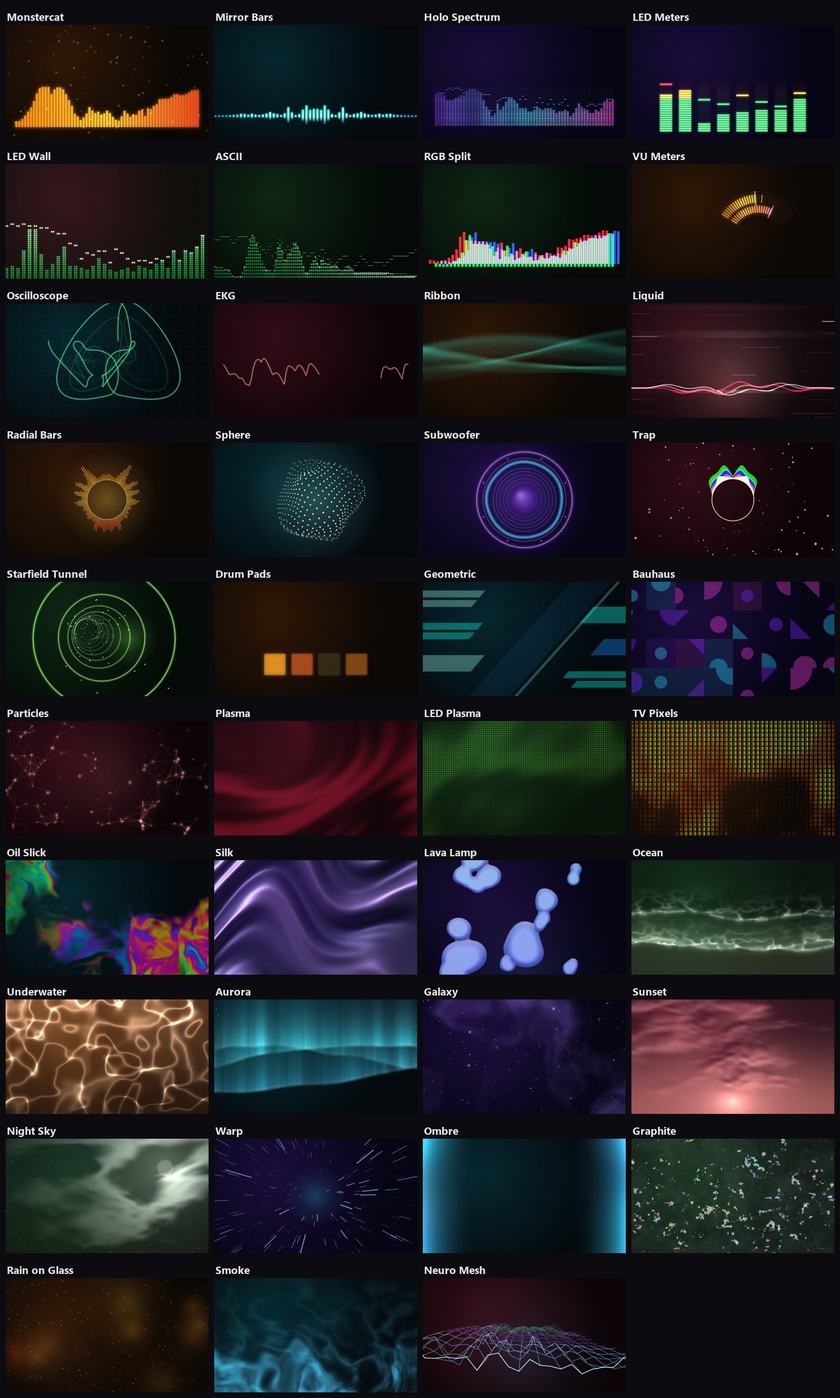
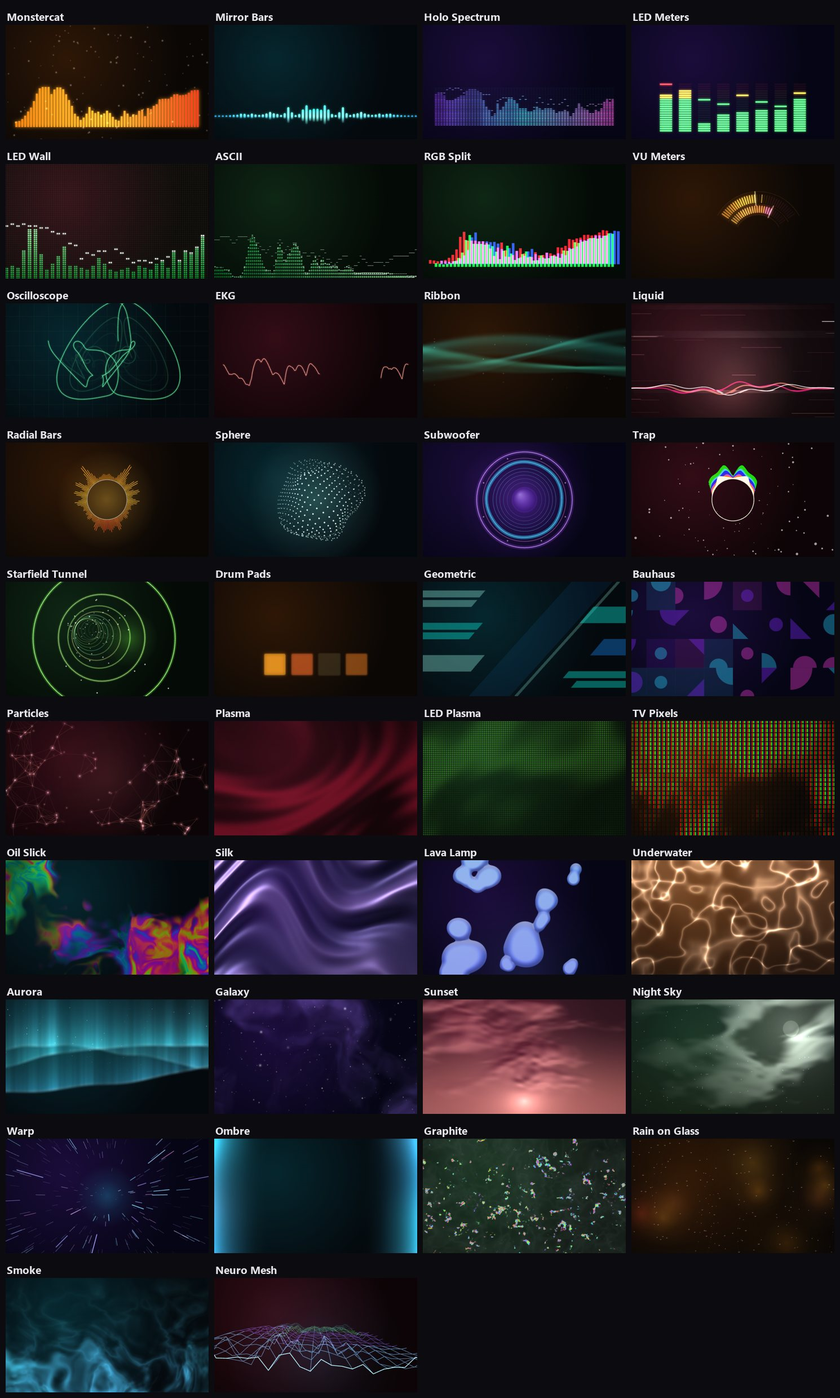
Remove Ocean; 38 styles

Changed region(s): [[0.0, 0.5899, 1.0, 1.0]]

diff --git a/spicy-visualiser.js b/spicy-visualiser.js
@@ -54,7 +54,6 @@
     ["ledplasma", "LED Plasma"],
     ["ekg", "EKG"],
     ["rgbsplit", "RGB Split"],
-    ["ocean", "Ocean"],
     ["underwater", "Underwater"],
     ["sunset", "Sunset"],
     ["nightsky", "Night Sky"],
@@ -64,7 +63,6 @@
   const STYLE_ICON = {
     ekg: '<path d="M1 13h5l2-3 2.5 9L14 4l2.5 9H23" fill="none" stroke="currentColor" stroke-width="1.8" stroke-linejoin="round" stroke-linecap="round"/>',
     rgbsplit: '<g style="mix-blend-mode:screen"><path d="M3 21V12h3v9zm5 0V6h3v15zm5 0V9h3v12zm5 0V4h3v17z" opacity=".55" transform="translate(-1 0)"/><path d="M3 21V12h3v9zm5 0V6h3v15zm5 0V9h3v12zm5 0V4h3v17z" opacity=".55" transform="translate(1 1)"/></g>',
-    ocean: '<g fill="none" stroke="currentColor" stroke-width="1.7" stroke-linecap="round"><path d="M1 10c3-3 5 3 8 0s5 3 8 0 4 2 6 0"/><path d="M1 15c3-3 5 3 8 0s5 3 8 0 4 2 6 0" opacity=".7"/><path d="M1 20c3-3 5 3 8 0s5 3 8 0 4 2 6 0" opacity=".45"/></g>',
     underwater: '<g fill="none" stroke="currentColor" stroke-width="1.5" stroke-linecap="round"><path d="M1 5c3-2 5 2 8 0s5 2 8 0 4 1 6 0"/><path d="M6 21l2.5-12M12 21V9M18 21l-2.5-12" opacity=".45"/></g><circle cx="9" cy="15" r="1.2"/><circle cx="15" cy="12" r="1"/>',
     sunset: '<path d="M5 16a7 7 0 0 1 14 0z"/><g stroke="currentColor" stroke-width="1.6" stroke-linecap="round"><path d="M1 19h22"/><path d="M4 22h16" opacity=".5"/></g><path d="M3 8c2-1.5 4-1.5 6 0s4 1.5 6 0" fill="none" stroke="currentColor" stroke-width="1.4" opacity=".6"/>',
     nightsky: '<path d="M15 3a8 8 0 1 0 6 12 6.5 6.5 0 0 1-6-12z"/><circle cx="5" cy="5" r="1"/><circle cx="9" cy="2.5" r=".8"/><circle cx="3" cy="11" r=".8"/>',
@@ -108,13 +106,13 @@
   // Styles that still look right on Spotify's data (it has loudness and
   // beats, not a real spectrum). With that source they're listed first and
   // the rest fold away under "More styles".
-  const SONG_DATA_OK = new Set(["ocean", "underwater", "sunset", "nightsky", "silk", "tvpixels", "drumpads", "particles", "plasma", "ledplasma", "warp", "dnb", "ribbon", "rain", "lava", "smoke", "tunnel", "aurora", "oil", "galaxy", "prism", "ombre", "geometric", "bauhaus", "sub", "off"]);
+  const SONG_DATA_OK = new Set(["underwater", "sunset", "nightsky", "silk", "tvpixels", "drumpads", "particles", "plasma", "ledplasma", "warp", "dnb", "ribbon", "rain", "lava", "smoke", "tunnel", "aurora", "oil", "galaxy", "prism", "ombre", "geometric", "bauhaus", "sub", "off"]);
   const STYLE_GROUPS = [
     ["Bars", ["monstercat", "mirror", "holospec", "ledm", "led", "ascii", "rgbsplit"]],
     ["Meters & lines", ["vu", "scope", "ekg", "ribbon", "dnb"]],
     ["Circles", ["radial", "ncs", "sub", "trap", "tunnel"]],
     ["On the beat", ["drumpads", "geometric", "bauhaus", "particles"]],
-    ["Liquid & water", ["plasma", "ledplasma", "tvpixels", "oil", "silk", "lava", "ocean", "underwater"]],
+    ["Liquid & water", ["plasma", "ledplasma", "tvpixels", "oil", "silk", "lava", "underwater"]],
     ["Sky & space", ["aurora", "galaxy", "sunset", "nightsky", "warp", "ombre"]],
     ["Textures", ["prism", "rain", "smoke", "neuro"]],
     ["", ["off"]],
@@ -126,13 +124,13 @@
     particles: ["particles", "monstercat", "warp", "dnb", "trap"],
     position: ["monstercat", "mirror", "ascii"],
     variant: ["geometric"],
-    beatEvery: ["ocean", "underwater", "sunset", "nightsky", "silk", "tvpixels", "geometric", "bauhaus", "plasma", "ledplasma", "sub", "trap", "neuro", "ribbon", "rain", "lava", "smoke", "tunnel", "aurora", "oil", "galaxy", "prism", "ombre"],
+    beatEvery: ["underwater", "sunset", "nightsky", "silk", "tvpixels", "geometric", "bauhaus", "plasma", "ledplasma", "sub", "trap", "neuro", "ribbon", "rain", "lava", "smoke", "tunnel", "aurora", "oil", "galaxy", "prism", "ombre"],
     neuroLook: ["neuro"],
     mcColor: ["monstercat"],
     vuFace: ["vu"],
     circleAt: ["trap", "radial", "ncs", "sub"],
-    speed: ["ekg", "ocean", "underwater", "sunset", "nightsky", "silk", "tvpixels", "scope", "trap", "neuro", "ribbon", "rain", "lava", "smoke", "tunnel", "aurora", "oil", "particles", "monstercat", "ncs", "radial", "plasma", "warp", "dnb", "ascii", "led", "ledplasma", "galaxy", "prism", "ombre"],
-    bassBoost: ["rgbsplit", "ocean", "underwater", "sunset", "nightsky", "silk", "tvpixels", "scope", "particles", "monstercat", "radial", "mirror", "ncs", "warp", "plasma", "dnb", "ascii", "geometric", "bauhaus", "led", "ledplasma", "sub", "trap", "ledm", "neuro", "ribbon", "rain", "lava", "smoke", "tunnel", "aurora", "oil", "galaxy", "prism", "ombre"],
+    speed: ["ekg", "underwater", "sunset", "nightsky", "silk", "tvpixels", "scope", "trap", "neuro", "ribbon", "rain", "lava", "smoke", "tunnel", "aurora", "oil", "particles", "monstercat", "ncs", "radial", "plasma", "warp", "dnb", "ascii", "led", "ledplasma", "galaxy", "prism", "ombre"],
+    bassBoost: ["rgbsplit", "underwater", "sunset", "nightsky", "silk", "tvpixels", "scope", "particles", "monstercat", "radial", "mirror", "ncs", "warp", "plasma", "dnb", "ascii", "geometric", "bauhaus", "led", "ledplasma", "sub", "trap", "ledm", "neuro", "ribbon", "rain", "lava", "smoke", "tunnel", "aurora", "oil", "galaxy", "prism", "ombre"],
     smoothing: ["rgbsplit", "ekg", "particles", "monstercat", "radial", "mirror", "ncs", "warp", "plasma", "dnb", "ascii", "geometric", "bauhaus", "led", "ledplasma", "sub", "trap", "ledm", "neuro", "aurora", "vu", "drumpads", "holospec"],
   };
 
@@ -192,7 +190,6 @@
     monstercat: { barCount: 63, bassBoost: 0.8, smoothing: 0.45, beatEvery: "4" },
     ledm: { shake: 0 },
     ekg: { shake: 0 },
-    ocean: { shake: 0 },
     underwater: { shake: 0 },
     sunset: { shake: 0 },
     nightsky: { shake: 0 },
@@ -244,7 +241,7 @@
   if (!Array.isArray(S.favs)) S.favs = [];
   // Retro Bars became LED Meters.
   // (and Drum Bars was taken out)
-  const MOVED = { retro: "ledm", drumbars: "drumpads", drums: "drumpads", holoradar: "holospec", holorings: "holospec", pitchtrail: "ekg", kaleido: "plasma", bubbles: "lava", chrome: "silk", ekgpitch: "ekg", ekgscroll: "ekg", pond: "ocean", storm: "sunset", mercury: "silk", ekg3: "ekg", chipscope: "scope", drumwaves: "drumpads" };
+  const MOVED = { retro: "ledm", drumbars: "drumpads", drums: "drumpads", holoradar: "holospec", holorings: "holospec", pitchtrail: "ekg", kaleido: "plasma", bubbles: "lava", chrome: "silk", ekgpitch: "ekg", ekgscroll: "ekg", pond: "underwater", ocean: "underwater", storm: "sunset", mercury: "silk", ekg3: "ekg", chipscope: "scope", drumwaves: "drumpads" };
   if (MOVED[S.style]) S.style = MOVED[S.style];
   S.favs = [...new Set(S.favs.map((f) => MOVED[f] || f))];
   if (!validStyle(S.style)) S.style = GLOBAL_DEFAULTS.style;
@@ -3175,73 +3172,6 @@ void main() {
   // Water and sky scenes. All use the album's colours, which turn on the
   // beat (Change every); the bass and loudness move them and kicks light
   // them up a little.
-
-  // Ocean: a beach seen from straight above, flat like a map. The sea at
-  // the top, sand at the bottom. Each kick sends a wave washing down over
-  // the sand with a lacy line of foam at its front; it slides back, leaving
-  // the sand dark and wet for a moment. The bass pushes the water's edge
-  // further in.
-  const OCEAN_FS = `
-uniform float uT, uE, uBass;
-uniform vec3 uC0, uC1, uC2;
-uniform vec4 uW[3];
-float wob(float x, float s) {
-  return 0.03 * sin(x * 3.1 + s) + 0.018 * sin(x * 7.3 - s * 1.7) + 0.02 * (noise(vec2(x * 4. + s * 3., s)) - 0.5);
-}
-void main() {
-  vec2 uv = gl_FragCoord.xy / uRes;
-  float x = uv.x * uRes.x / uRes.y, y = uv.y;
-  float base = 0.62 - 0.06 * uBass + 0.015 * sin(uT * 0.5);
-  float edge = base + wob(x, uT * 0.07);
-  float wet = 0., foam = 0.;
-  // foam: a net of thin bubbly lines, like the lace a wave leaves behind
-  float lace = pow(1. - abs(fbm3(vec2(x * 7., y * 11.) + vec2(uT * 0.05, -uT * 0.08)) * 2. - 1.), 7.);
-  for (int i = 0; i < 3; i++) {
-    vec4 w = uW[i];
-    if (w.y <= 0.) continue;
-    float e = base - w.x + wob(x, w.w);
-    edge = min(edge, e);
-    // the sand the wave reached stays dark and wet for a moment
-    wet = max(wet, w.y * step(base - w.z + wob(x, w.w), y));
-    // foam along the front, thinning out behind it
-    float d = y - e;
-    float rim = exp(-abs(d + 0.006) * 70.) * (0.45 + 0.55 * smoothstep(0.3, 0.6, noise(vec2(x * 18., w.w))));
-    foam = max(foam, w.y * (rim * 0.75 + step(0., d) * exp(-d * 14.) * lace * 0.9));
-  }
-  float d = y - edge;
-  vec3 sand = mix(uC2, vec3(0.78, 0.68, 0.52), 0.75) * 0.2;
-  sand *= 1. - 0.45 * wet;
-  vec3 shallow = mix(uC1, vec3(0.6, 0.9, 0.9), 0.15) * 0.32;
-  vec3 deep = uC0 * 0.05;
-  vec3 sea = mix(shallow, deep, smoothstep(0., 0.35, d));
-  sea += mix(uC1, vec3(1.), 0.5) * lace * exp(-d * 8.) * 0.18;
-  vec3 col = mix(sand, sea, smoothstep(-0.002, 0.002, d));
-  col += mix(uC1, vec3(1.), 0.75) * foam * (0.55 + 0.25 * uE);
-  // a thin line of foam where the calm water meets the sand
-  col += mix(uC1, vec3(1.), 0.7) * exp(-abs(d) * 90.) * 0.18;
-  o = vec4(min(col, vec3(1.)), 0.95);
-}`;
-  DRAW.ocean = (v, p, dt) => {
-    const st = v.ocean || (v.ocean = { waves: [] });
-    fxClock(st, p, dt, 0.3, 4, 1, 3);
-    if (st.newKick) {
-      if (st.waves.length >= 3) st.waves.shift();
-      st.waves.push({ ph: 0, s: Math.min(1, 0.45 + 0.6 * Math.min(1, shared.kick)), seed: Math.random() * 50 });
-    }
-    const W = new Float32Array(12);
-    st.waves = st.waves.filter((w) => (w.ph += (dt * p.speed) / 3.2) < 1);
-    st.waves.forEach((w, i) => {
-      // rushes in fast, then slides back slowly
-      const out = w.ph < 0.25 ? Math.sin((w.ph / 0.25) * Math.PI * 0.5) : 1 - (w.ph - 0.25) / 0.75;
-      const reach = 0.16 + 0.22 * w.s;
-      W[i * 4] = reach * out * out * (3 - 2 * out);
-      W[i * 4 + 1] = (1 - w.ph) * (1 - w.ph * 0.5);
-      W[i * 4 + 2] = reach;
-      W[i * 4 + 3] = w.seed;
-    });
-    const pal = easePal(st, beatSteps(st, p), dt, 0.4);
-    fxDraw(v, "ocean", OCEAN_FS, { uT: st.T, uE: shared.energy, uBass: Math.min(1, 0.6 * st.lift + 0.4 * st.punch), uW: W, uC0: rgb1(pal[0]), uC1: rgb1(pal[1]), uC2: rgb1(pal[2]) }, 1);
-  };
 
   // Underwater: looking up from under the sea. Rippling nets of light
   // (caustics) wobble across, with soft shafts of light from the surface.

diff --git a/src/spicy-visualiser.template.js b/src/spicy-visualiser.template.js
@@ -54,7 +54,6 @@
     ["ledplasma", "LED Plasma"],
     ["ekg", "EKG"],
     ["rgbsplit", "RGB Split"],
-    ["ocean", "Ocean"],
     ["underwater", "Underwater"],
     ["sunset", "Sunset"],
     ["nightsky", "Night Sky"],
@@ -64,7 +63,6 @@
   const STYLE_ICON = {
     ekg: '<path d="M1 13h5l2-3 2.5 9L14 4l2.5 9H23" fill="none" stroke="currentColor" stroke-width="1.8" stroke-linejoin="round" stroke-linecap="round"/>',
     rgbsplit: '<g style="mix-blend-mode:screen"><path d="M3 21V12h3v9zm5 0V6h3v15zm5 0V9h3v12zm5 0V4h3v17z" opacity=".55" transform="translate(-1 0)"/><path d="M3 21V12h3v9zm5 0V6h3v15zm5 0V9h3v12zm5 0V4h3v17z" opacity=".55" transform="translate(1 1)"/></g>',
-    ocean: '<g fill="none" stroke="currentColor" stroke-width="1.7" stroke-linecap="round"><path d="M1 10c3-3 5 3 8 0s5 3 8 0 4 2 6 0"/><path d="M1 15c3-3 5 3 8 0s5 3 8 0 4 2 6 0" opacity=".7"/><path d="M1 20c3-3 5 3 8 0s5 3 8 0 4 2 6 0" opacity=".45"/></g>',
     underwater: '<g fill="none" stroke="currentColor" stroke-width="1.5" stroke-linecap="round"><path d="M1 5c3-2 5 2 8 0s5 2 8 0 4 1 6 0"/><path d="M6 21l2.5-12M12 21V9M18 21l-2.5-12" opacity=".45"/></g><circle cx="9" cy="15" r="1.2"/><circle cx="15" cy="12" r="1"/>',
     sunset: '<path d="M5 16a7 7 0 0 1 14 0z"/><g stroke="currentColor" stroke-width="1.6" stroke-linecap="round"><path d="M1 19h22"/><path d="M4 22h16" opacity=".5"/></g><path d="M3 8c2-1.5 4-1.5 6 0s4 1.5 6 0" fill="none" stroke="currentColor" stroke-width="1.4" opacity=".6"/>',
     nightsky: '<path d="M15 3a8 8 0 1 0 6 12 6.5 6.5 0 0 1-6-12z"/><circle cx="5" cy="5" r="1"/><circle cx="9" cy="2.5" r=".8"/><circle cx="3" cy="11" r=".8"/>',
@@ -108,13 +106,13 @@
   // Styles that still look right on Spotify's data (it has loudness and
   // beats, not a real spectrum). With that source they're listed first and
   // the rest fold away under "More styles".
-  const SONG_DATA_OK = new Set(["ocean", "underwater", "sunset", "nightsky", "silk", "tvpixels", "drumpads", "particles", "plasma", "ledplasma", "warp", "dnb", "ribbon", "rain", "lava", "smoke", "tunnel", "aurora", "oil", "galaxy", "prism", "ombre", "geometric", "bauhaus", "sub", "off"]);
+  const SONG_DATA_OK = new Set(["underwater", "sunset", "nightsky", "silk", "tvpixels", "drumpads", "particles", "plasma", "ledplasma", "warp", "dnb", "ribbon", "rain", "lava", "smoke", "tunnel", "aurora", "oil", "galaxy", "prism", "ombre", "geometric", "bauhaus", "sub", "off"]);
   const STYLE_GROUPS = [
     ["Bars", ["monstercat", "mirror", "holospec", "ledm", "led", "ascii", "rgbsplit"]],
     ["Meters & lines", ["vu", "scope", "ekg", "ribbon", "dnb"]],
     ["Circles", ["radial", "ncs", "sub", "trap", "tunnel"]],
     ["On the beat", ["drumpads", "geometric", "bauhaus", "particles"]],
-    ["Liquid & water", ["plasma", "ledplasma", "tvpixels", "oil", "silk", "lava", "ocean", "underwater"]],
+    ["Liquid & water", ["plasma", "ledplasma", "tvpixels", "oil", "silk", "lava", "underwater"]],
     ["Sky & space", ["aurora", "galaxy", "sunset", "nightsky", "warp", "ombre"]],
     ["Textures", ["prism", "rain", "smoke", "neuro"]],
     ["", ["off"]],
@@ -126,13 +124,13 @@
     particles: ["particles", "monstercat", "warp", "dnb", "trap"],
     position: ["monstercat", "mirror", "ascii"],
     variant: ["geometric"],
-    beatEvery: ["ocean", "underwater", "sunset", "nightsky", "silk", "tvpixels", "geometric", "bauhaus", "plasma", "ledplasma", "sub", "trap", "neuro", "ribbon", "rain", "lava", "smoke", "tunnel", "aurora", "oil", "galaxy", "prism", "ombre"],
+    beatEvery: ["underwater", "sunset", "nightsky", "silk", "tvpixels", "geometric", "bauhaus", "plasma", "ledplasma", "sub", "trap", "neuro", "ribbon", "rain", "lava", "smoke", "tunnel", "aurora", "oil", "galaxy", "prism", "ombre"],
     neuroLook: ["neuro"],
     mcColor: ["monstercat"],
     vuFace: ["vu"],
     circleAt: ["trap", "radial", "ncs", "sub"],
-    speed: ["ekg", "ocean", "underwater", "sunset", "nightsky", "silk", "tvpixels", "scope", "trap", "neuro", "ribbon", "rain", "lava", "smoke", "tunnel", "aurora", "oil", "particles", "monstercat", "ncs", "radial", "plasma", "warp", "dnb", "ascii", "led", "ledplasma", "galaxy", "prism", "ombre"],
-    bassBoost: ["rgbsplit", "ocean", "underwater", "sunset", "nightsky", "silk", "tvpixels", "scope", "particles", "monstercat", "radial", "mirror", "ncs", "warp", "plasma", "dnb", "ascii", "geometric", "bauhaus", "led", "ledplasma", "sub", "trap", "ledm", "neuro", "ribbon", "rain", "lava", "smoke", "tunnel", "aurora", "oil", "galaxy", "prism", "ombre"],
+    speed: ["ekg", "underwater", "sunset", "nightsky", "silk", "tvpixels", "scope", "trap", "neuro", "ribbon", "rain", "lava", "smoke", "tunnel", "aurora", "oil", "particles", "monstercat", "ncs", "radial", "plasma", "warp", "dnb", "ascii", "led", "ledplasma", "galaxy", "prism", "ombre"],
+    bassBoost: ["rgbsplit", "underwater", "sunset", "nightsky", "silk", "tvpixels", "scope", "particles", "monstercat", "radial", "mirror", "ncs", "warp", "plasma", "dnb", "ascii", "geometric", "bauhaus", "led", "ledplasma", "sub", "trap", "ledm", "neuro", "ribbon", "rain", "lava", "smoke", "tunnel", "aurora", "oil", "galaxy", "prism", "ombre"],
     smoothing: ["rgbsplit", "ekg", "particles", "monstercat", "radial", "mirror", "ncs", "warp", "plasma", "dnb", "ascii", "geometric", "bauhaus", "led", "ledplasma", "sub", "trap", "ledm", "neuro", "aurora", "vu", "drumpads", "holospec"],
   };
 
@@ -192,7 +190,6 @@
     monstercat: { barCount: 63, bassBoost: 0.8, smoothing: 0.45, beatEvery: "4" },
     ledm: { shake: 0 },
     ekg: { shake: 0 },
-    ocean: { shake: 0 },
     underwater: { shake: 0 },
     sunset: { shake: 0 },
     nightsky: { shake: 0 },
@@ -244,7 +241,7 @@
   if (!Array.isArray(S.favs)) S.favs = [];
   // Retro Bars became LED Meters.
   // (and Drum Bars was taken out)
-  const MOVED = { retro: "ledm", drumbars: "drumpads", drums: "drumpads", holoradar: "holospec", holorings: "holospec", pitchtrail: "ekg", kaleido: "plasma", bubbles: "lava", chrome: "silk", ekgpitch: "ekg", ekgscroll: "ekg", pond: "ocean", storm: "sunset", mercury: "silk", ekg3: "ekg", chipscope: "scope", drumwaves: "drumpads" };
+  const MOVED = { retro: "ledm", drumbars: "drumpads", drums: "drumpads", holoradar: "holospec", holorings: "holospec", pitchtrail: "ekg", kaleido: "plasma", bubbles: "lava", chrome: "silk", ekgpitch: "ekg", ekgscroll: "ekg", pond: "underwater", ocean: "underwater", storm: "sunset", mercury: "silk", ekg3: "ekg", chipscope: "scope", drumwaves: "drumpads" };
   if (MOVED[S.style]) S.style = MOVED[S.style];
   S.favs = [...new Set(S.favs.map((f) => MOVED[f] || f))];
   if (!validStyle(S.style)) S.style = GLOBAL_DEFAULTS.style;
@@ -3175,73 +3172,6 @@ void main() {
   // Water and sky scenes. All use the album's colours, which turn on the
   // beat (Change every); the bass and loudness move them and kicks light
   // them up a little.
-
-  // Ocean: a beach seen from straight above, flat like a map. The sea at
-  // the top, sand at the bottom. Each kick sends a wave washing down over
-  // the sand with a lacy line of foam at its front; it slides back, leaving
-  // the sand dark and wet for a moment. The bass pushes the water's edge
-  // further in.
-  const OCEAN_FS = `
-uniform float uT, uE, uBass;
-uniform vec3 uC0, uC1, uC2;
-uniform vec4 uW[3];
-float wob(float x, float s) {
-  return 0.03 * sin(x * 3.1 + s) + 0.018 * sin(x * 7.3 - s * 1.7) + 0.02 * (noise(vec2(x * 4. + s * 3., s)) - 0.5);
-}
-void main() {
-  vec2 uv = gl_FragCoord.xy / uRes;
-  float x = uv.x * uRes.x / uRes.y, y = uv.y;
-  float base = 0.62 - 0.06 * uBass + 0.015 * sin(uT * 0.5);
-  float edge = base + wob(x, uT * 0.07);
-  float wet = 0., foam = 0.;
-  // foam: a net of thin bubbly lines, like the lace a wave leaves behind
-  float lace = pow(1. - abs(fbm3(vec2(x * 7., y * 11.) + vec2(uT * 0.05, -uT * 0.08)) * 2. - 1.), 7.);
-  for (int i = 0; i < 3; i++) {
-    vec4 w = uW[i];
-    if (w.y <= 0.) continue;
-    float e = base - w.x + wob(x, w.w);
-    edge = min(edge, e);
-    // the sand the wave reached stays dark and wet for a moment
-    wet = max(wet, w.y * step(base - w.z + wob(x, w.w), y));
-    // foam along the front, thinning out behind it
-    float d = y - e;
-    float rim = exp(-abs(d + 0.006) * 70.) * (0.45 + 0.55 * smoothstep(0.3, 0.6, noise(vec2(x * 18., w.w))));
-    foam = max(foam, w.y * (rim * 0.75 + step(0., d) * exp(-d * 14.) * lace * 0.9));
-  }
-  float d = y - edge;
-  vec3 sand = mix(uC2, vec3(0.78, 0.68, 0.52), 0.75) * 0.2;
-  sand *= 1. - 0.45 * wet;
-  vec3 shallow = mix(uC1, vec3(0.6, 0.9, 0.9), 0.15) * 0.32;
-  vec3 deep = uC0 * 0.05;
-  vec3 sea = mix(shallow, deep, smoothstep(0., 0.35, d));
-  sea += mix(uC1, vec3(1.), 0.5) * lace * exp(-d * 8.) * 0.18;
-  vec3 col = mix(sand, sea, smoothstep(-0.002, 0.002, d));
-  col += mix(uC1, vec3(1.), 0.75) * foam * (0.55 + 0.25 * uE);
-  // a thin line of foam where the calm water meets the sand
-  col += mix(uC1, vec3(1.), 0.7) * exp(-abs(d) * 90.) * 0.18;
-  o = vec4(min(col, vec3(1.)), 0.95);
-}`;
-  DRAW.ocean = (v, p, dt) => {
-    const st = v.ocean || (v.ocean = { waves: [] });
-    fxClock(st, p, dt, 0.3, 4, 1, 3);
-    if (st.newKick) {
-      if (st.waves.length >= 3) st.waves.shift();
-      st.waves.push({ ph: 0, s: Math.min(1, 0.45 + 0.6 * Math.min(1, shared.kick)), seed: Math.random() * 50 });
-    }
-    const W = new Float32Array(12);
-    st.waves = st.waves.filter((w) => (w.ph += (dt * p.speed) / 3.2) < 1);
-    st.waves.forEach((w, i) => {
-      // rushes in fast, then slides back slowly
-      const out = w.ph < 0.25 ? Math.sin((w.ph / 0.25) * Math.PI * 0.5) : 1 - (w.ph - 0.25) / 0.75;
-      const reach = 0.16 + 0.22 * w.s;
-      W[i * 4] = reach * out * out * (3 - 2 * out);
-      W[i * 4 + 1] = (1 - w.ph) * (1 - w.ph * 0.5);
-      W[i * 4 + 2] = reach;
-      W[i * 4 + 3] = w.seed;
-    });
-    const pal = easePal(st, beatSteps(st, p), dt, 0.4);
-    fxDraw(v, "ocean", OCEAN_FS, { uT: st.T, uE: shared.energy, uBass: Math.min(1, 0.6 * st.lift + 0.4 * st.punch), uW: W, uC0: rgb1(pal[0]), uC1: rgb1(pal[1]), uC2: rgb1(pal[2]) }, 1);
-  };
 
   // Underwater: looking up from under the sea. Rippling nets of light
   // (caustics) wobble across, with soft shafts of light from the surface.

diff --git a/test/run-tests.js b/test/run-tests.js
@@ -7,7 +7,7 @@ const fs = require("fs");
 const OUT = path.join(__dirname, "out");
 fs.mkdirSync(OUT, { recursive: true });
 
-const STYLES = ["particles", "monstercat", "ncs", "radial", "mirror", "plasma", "warp", "dnb", "ascii", "geometric", "bauhaus", "sub", "trap", "ledm", "neuro", "ribbon", "rain", "lava", "smoke", "tunnel", "aurora", "silk", "tvpixels", "oil", "galaxy", "prism", "ombre", "led", "ledplasma", "vu", "scope", "holospec", "rgbsplit", "ekg", "ocean", "underwater", "sunset", "nightsky", "drumpads"];
+const STYLES = ["particles", "monstercat", "ncs", "radial", "mirror", "plasma", "warp", "dnb", "ascii", "geometric", "bauhaus", "sub", "trap", "ledm", "neuro", "ribbon", "rain", "lava", "smoke", "tunnel", "aurora", "silk", "tvpixels", "oil", "galaxy", "prism", "ombre", "led", "ledplasma", "vu", "scope", "holospec", "rgbsplit", "ekg", "underwater", "sunset", "nightsky", "drumpads"];
 // Extra looks of a style: [style, setting key, value]
 const VARIANTS = [["geometric", "variant", "brutalist"], ["neuro", "neuroLook", "lines"], ["neuro", "neuroLook", "ridges"], ["monstercat", "mcColor", "height"], ["monstercat", "mcColor", "solid"], ["monstercat", "mcColor", "bar"], ["trap", "circleAt", "art"]];
 const HIGHLIGHTS = ["soft", "fade", "sweep", "underline"];

diff --git a/test/check-style-groups.js b/test/check-style-groups.js
@@ -16,7 +16,7 @@ const path = require("path");
   const cat = await p.evaluate(() => [...document.querySelectorAll(".lp-panel .lp-cards .lp-cat")].filter((x) => x.offsetParent).map((x) => x.textContent));
   await p.evaluate(() => document.querySelector(".lp-panel .lp-sd-more").click());
   const opened = await visible();
-  const ok = sd === 26 && opened === 40 && cat.join() === "Works with Spotify data" && def === "plasma";
+  const ok = sd === 25 && opened === 39 && cat.join() === "Works with Spotify data" && def === "plasma";
   console.log(ok ? "PASS" : "FAIL", "style groups by sound source", JSON.stringify({ sd, opened, cat, def }));
   await b.close();
   process.exit(ok ? 0 : 1);

diff --git a/test/song/docs-shots.js b/test/song/docs-shots.js
@@ -26,7 +26,7 @@ const SHOTS = [
   ["radial", 26], ["ncs", 23], ["sub", 13], ["trap", 25], ["tunnel", 27],
   ["drumpads", 22], ["geometric", 11], ["bauhaus", 29],
   ["plasma", 18], ["ledplasma", 24], ["tvpixels", 22], ["oil", 20], ["silk", 22], ["dnb", 26],
-  ["ocean", 23], ["underwater", 21],
+  ["underwater", 21],
   ["aurora", 23], ["galaxy", 21], ["sunset", 24], ["nightsky", 20], ["ribbon", 27], ["ombre", 25], ["warp", 30], ["particles", 22],
   ["prism", 22], ["rain", 19], ["smoke", 24], ["lava", 20], ["neuro", 14],
 ];

diff --git a/tools/make-doc-images.py b/tools/make-doc-images.py
@@ -19,7 +19,7 @@ GROUPS = [
     ("Meters & lines", [("vu", "VU Meters"), ("scope", "Oscilloscope"), ("ekg", "EKG"), ("ribbon", "Ribbon"), ("dnb", "Liquid")]),
     ("Circles", [("radial", "Radial Bars"), ("ncs", "Sphere"), ("sub", "Subwoofer"), ("trap", "Trap"), ("tunnel", "Starfield Tunnel")]),
     ("On the beat", [("drumpads", "Drum Pads"), ("geometric", "Geometric"), ("bauhaus", "Bauhaus"), ("particles", "Particles")]),
-    ("Liquid & water", [("plasma", "Plasma"), ("ledplasma", "LED Plasma"), ("tvpixels", "TV Pixels"), ("oil", "Oil Slick"), ("silk", "Silk"), ("lava", "Lava Lamp"), ("ocean", "Ocean"), ("underwater", "Underwater")]),
+    ("Liquid & water", [("plasma", "Plasma"), ("ledplasma", "LED Plasma"), ("tvpixels", "TV Pixels"), ("oil", "Oil Slick"), ("silk", "Silk"), ("lava", "Lava Lamp"), ("underwater", "Underwater")]),
     ("Sky & space", [("aurora", "Aurora"), ("galaxy", "Galaxy"), ("sunset", "Sunset"), ("nightsky", "Night Sky"), ("warp", "Warp"), ("ombre", "Ombre")]),
     ("Textures", [("prism", "Graphite"), ("rain", "Rain on Glass"), ("smoke", "Smoke"), ("neuro", "Neuro Mesh")]),
 ]

diff --git a/README.md b/README.md
@@ -4,7 +4,7 @@
 
 **A Spicetify extension that adds a music visualiser to Spicy Lyrics.**
 
-39 styles that move with the music, take their colours from the album cover and sit right behind the lyrics.
+38 styles that move with the music, take their colours from the album cover and sit right behind the lyrics.
 
 > [!TIP]
 > **Works straight from the Marketplace.** Without anything else it follows Spotify's data for each song (Spotify only gives add-ons a little info, like bass, mids and highs). For the real sound, where every style looks its best, add the small **helper** (Windows): click **Install helper** in the visualiser, or [download the helper](https://github.com/siamct/spicy-visualiser/raw/main/setup/SpicyVisualiserHelper.zip).
@@ -24,7 +24,7 @@
 
 ## Highlights
 
-- **39 styles:** bars, LED meters and LED spectrums, VU meters (holo, classic, minimal and HUD looks), a glowing holo spectrum, heart-monitor style lines, an oscilloscope, RGB split bars, circles and a subwoofer, drum hits, poster shapes, fluids, wave ribbons, rain on glass, a lava lamp, smoke, a starfield tunnel, an aurora, flowing silk, a close-up of TV pixels, an oil slick, a galaxy, an open sea, an underwater view, sunset and night skies, iridescent stone, ombre gradients, particles and a 3D mesh landscape.
+- **38 styles:** bars, LED meters and LED spectrums, VU meters (holo, classic, minimal and HUD looks), a glowing holo spectrum, heart-monitor style lines, an oscilloscope, RGB split bars, circles and a subwoofer, drum hits, poster shapes, fluids, wave ribbons, rain on glass, a lava lamp, smoke, a starfield tunnel, an aurora, flowing silk, a close-up of TV pixels, an oil slick, a galaxy, an underwater view, sunset and night skies, iridescent stone, ombre gradients, particles and a 3D mesh landscape.
 - **Album colours:** every song gets its own palette from its cover, shifting on the beat or holding still, as you like. Or pick your own, rainbow, or each style's classic look.
 - **Fully customisable:** opacity, size, blur, brightness, bar count, position, sensitivity, bass boost, speed, shake and more. Each style remembers its own settings.
 - **Works out of the box:** runs on Spotify's own song data straight from the Marketplace.
@@ -34,7 +34,7 @@
 - **Light on your PC:** stops when the lyrics aren't on screen and drops to 30 fps when Spotify isn't focused.
 
 <details>
-<summary><b>See all 39 styles</b></summary>
+<summary><b>See all 38 styles</b></summary>
 
 <br>
 
@@ -91,7 +91,7 @@ spicetify apply
 
 Click the bars icon in Spicy Lyrics for quick settings, or open **Spicy Visualiser Settings** from Spotify's profile menu for the full settings window. While you drag a slider the rest of the panel fades away so you can see the effect.
 
-- **Style:** the sound source (helper or Spotify data) and the 39 styles.
+- **Style:** the sound source (helper or Spotify data) and the 38 styles.
 - **Look:** colours, opacity, blur, brightness, size, bar count, position, darken background.
 - **Sound:** Fit each song, sensitivity, bass boost, smoothing, kick pulse and flash, shake, speed; Fine-tune holds beat sensitivity and tap to the beat.
 - **Lyrics:** highlight the word or line, with Soft, Fade, Sweep or Underline glows.

diff --git a/docs/STYLES.md b/docs/STYLES.md
@@ -206,11 +206,6 @@ Lumpy blobs of colour rising and sinking, stretching, merging and splitting:
 - the bass swells them and kicks give them a wobble;
 - the colours step round on the beat.
 
-### Ocean
-![Ocean](screenshots/styles/ocean.jpg)
-
-A beach seen from straight above, flat like a map: the sea at the top, sand at the bottom. Each kick sends a wave washing down over the sand with a lacy line of foam at its front; it slides back and leaves the sand dark and wet for a moment. The bass pushes the water's edge further in.
-
 ### Underwater
 ![Underwater](screenshots/styles/underwater.jpg)
 
